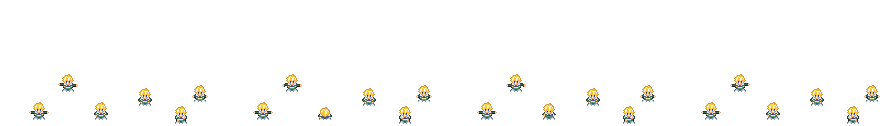
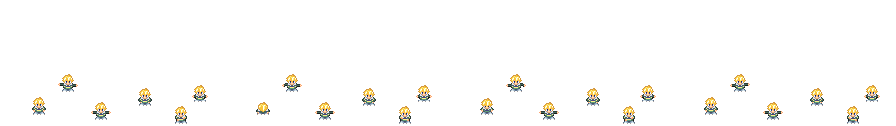
updated imports

diff --git a/lib/objects/AnimatedImage.js b/lib/objects/AnimatedImage.js
@@ -1,0 +1,95 @@
+import ArtObject  from "./ArtObject.js";
+
+/**
+ * @typedef {Object} AsepriteRect
+ * @property {number} x
+ * @property {number} y
+ * @property {number} w
+ * @property {number} h
+ */
+
+/**
+ * @typedef {Object} AsepriteFrameData
+ * @property {AsepriteRect} frame
+ * @property {boolean} rotated
+ * @property {boolean} trimmed
+ * @property {AsepriteRect} spriteSourceSize
+ * @property {{ w: number, h: number }} sourceSize
+ * @property {number} duration
+ */
+
+/**
+ * @typedef {Object} AsepriteFrameTag
+ * @property {string} name
+ * @property {number} from
+ * @property {number} to
+ * @property {"forward" | "reverse" | "pingpong"} direction
+ * @property {string} [color]
+ */
+
+/**
+ * @typedef {Object} AsepriteLayer
+ * @property {string} name
+ * @property {number} opacity
+ * @property {string} blendMode
+ */
+
+/**
+ * @typedef {Object} AsepriteMeta
+ * @property {string} app
+ * @property {string} version
+ * @property {string} image
+ * @property {string} format
+ * @property {{ w: number, h: number }} size
+ * @property {string} scale
+ * @property {AsepriteFrameTag[]} frameTags
+ * @property {AsepriteLayer[]} layers
+ * @property {any[]} slices
+ */
+
+/**
+ * @typedef {Object} AsepriteJSON
+ * @property {Object.<string, AsepriteFrameData>} frames  - Keys are filenames like "outlaw-overture 0.aseprite"
+ * @property {AsepriteMeta} meta
+ */
+
+/**
+ * Plays an animated image based on exported .png and .json files for Aseprite spritsheets.
+ */
+export default class AnimatedImage extends ArtObject {
+    /**
+     * @param {Scene} scene
+     * @param {Symbol} id
+     * @param {string} spritesheet .png image exported from Aseprite
+     * @param {AsepriteJSON} config .json config file exported from Aseprite
+     */
+    constructor(scene, id, spritesheet, config) {
+        super(scene,id)
+        this.image = spritesheet;
+        this.frames = Object.values(config.frames);
+        this.currentFrameIdx = 0;
+        this.elapsed = 0;
+    }
+
+    /**
+     * @param {number} elapsed 
+     */
+    update(elapsed) {
+        if (elapsed - this.elapsed >= this.frames[this.currentFrameIdx].duration) {
+            if (this.currentFrameIdx === this.frames.length - 1) {
+                this.currentFrameIdx = 0;
+            } else {
+                this.currentFrameIdx++;
+            }
+            this.elapsed = elapsed;
+        }
+    }
+
+    /**
+     * @param {CanvasRenderingContext2D} ctx 
+     */
+    draw(ctx) {
+        const { x, y, w, h } = this.frames[this.currentFrameIdx].frame;
+        ctx.drawImage(this.scene.art.images.get(this.image), x, y, w, h, 0, 0, w, h);
+    }
+}

diff --git a/Play.js b/Play.js
@@ -1,7 +1,7 @@
-import { Scene } from "./lib/index.js";
+import { Scene,AnimatedImage } from "./lib/index.js";
 import { BASE_URL } from "./config.js";
 import Note from "./Note.js";
-import AnimatedImage from "./AnimatedSprite.js"
+
 
 export default class Play extends Scene {
 
@@ -17,33 +17,28 @@ export default class Play extends Scene {
         this.art.images.add("background", `${BASE_URL}assets/images/background.png`);
         this.art.images.add("mgk", `${BASE_URL}assets/images/mgk.png`);
         this.art.images.add("stereo", `${BASE_URL}assets/images/stereo.png`)
-
         this.art.audio.add("song", `${BASE_URL}assets/audio/outlaw-overture.mp3`);
 
         await this.art.images.load();
         await this.art.audio.load();
 
-        const response = await fetch('./mgk.json');
-        const mgkConfig = await response.json();
+        const res = await fetch(`${BASE_URL}assets/anim/mgk.json`);
+        const mgkConfig = await res.json();
 
-         const response2 = await fetch('./stereo.json');
-        const stereoConfig = await response2.json();
+         const res2 = await fetch(`${BASE_URL}assets/anim/stereo.json`);
+        const stereoConfig = await res2.json();
 
         this.mgk = new AnimatedImage(this, Symbol("mgk"), "mgk", mgkConfig);
-        this.stereo = new AnimatedImage(this, Symbol("stereo"), "stereo", stereoConfig);
-
+        this.stereo = new AnimatedImage(this, Symbol("stereo"), "stereo", stereoConfig); 
         this.notes.push(new Note(this, { x: 101 + Math.floor(Math.random() * 16), y: 87 }));
     }
 
 
     update(elapsed) {
-
         if(elapsed  - this.lastElapsedNoteSpawn >= 250) {
-
             this.notes.push(
                 new Note(this, { x: 101 + Math.floor(Math.random() * 11), y: 87 })
             );
-
             this.lastElapsedNoteSpawn = elapsed;
         } 
 
@@ -53,7 +48,6 @@ export default class Play extends Scene {
         for (const n of this.notes) {
             n.update(elapsed);
         }
-
         this.notes = this.notes.filter(s => !s.isKilled);
     }
 

diff --git a/index.html b/index.html
@@ -67,20 +67,28 @@
           
             }
 
-            #controls {
-                width: 100%;
+            #bar {
                 display: flex;
-                display: flex;
+                flex-direction: row;
                 align-items: center;
-                justify-content: flex-end;
+                justify-content: space-between;
+                width: 100%;
                 opacity: 0;
                 transition: opacity 0.2s ease-in;
                 padding: 1rem;
                 background-color: #121212c9;
+                color: var(--color);
             }
 
-            #player:hover > #controls,  
-            #player.active > #controls {
+            #controls {
+                display: flex;
+                align-items: center;
+                justify-content: flex-end;
+                     color: var(--color);
+            }
+
+            #player:hover > #bar,  
+            #player.active > #bar {
                 opacity: 1;
             }
 
@@ -121,6 +129,8 @@
         </style>
 
         <div tabindex="0"  id="player" class="player-part">
+            <section id="bar">
+            <p>MGK - Outlaw overture</p>
             <section class="player-part" id="controls">
                 <button class="player-part" id="btn-play-pause"><svg class="icon" fill="none" xmlns="http://www.w3.org/2000/svg" viewBox="0 0 24 24"> <path d="M10 20H8V4h2v2h2v3h2v2h2v2h-2v2h-2v3h-2v2z" fill="currentColor"/> </svg></button>
                 <div class="player-part" id="volume-control">
@@ -130,6 +140,7 @@
                     <button class="player-part"></button>
                     <button class="player-part"></button>
                 </div>
+            </section>
             </section>
         </div>
     </template>

diff --git a/Pause.js b/Pause.js
@@ -1,7 +1,6 @@
 
-import { Scene } from "./lib/index.js";
+import { Scene, AnimatedImage } from "./lib/index.js";
 import { BASE_URL } from "./config.js";
-import AnimatedImage from "./AnimatedSprite.js";
 
 export default class Pause extends Scene {
 
@@ -14,8 +13,8 @@ export default class Pause extends Scene {
         this.art.images.add("arrow", `${BASE_URL}assets/images/arrow.png`);
         await this.art.images.load();
 
-        const response2 = await fetch('./arrow.json');
-        const config = await response2.json();
+        const res = await fetch(`${BASE_URL}assets/anim/arrow.json`);
+        const config = await res.json();
 
         this.arrow = new AnimatedImage(this, Symbol("arrow"), "arrow", config);
     }

diff --git a/lib/index.js b/lib/index.js
@@ -6,3 +6,4 @@ export { default as StaticImage } from "./objects/StaticImage.js";
 export { default as Sprite } from "./objects/Sprite.js";
 export { default as Scene } from "./Scene.js";
 export { default as ArtObject } from "./objects/ArtObject.js";
+export { default as AnimatedImage } from "./objects/AnimatedImage.js";

diff --git a/audio-player/AudioPlayerElement.js b/audio-player/AudioPlayerElement.js
@@ -120,6 +120,7 @@ export default class AudioPlayerElement extends HTMLElement {
 
     attributeChangedCallback(name, oldValue, newValue) {
        if(DEBUG) console.log(`Attribute ${name} has changed from ${oldValue} to ${newValue}`);
+       this[name] = newValue;
     }
 
     isActive(){
